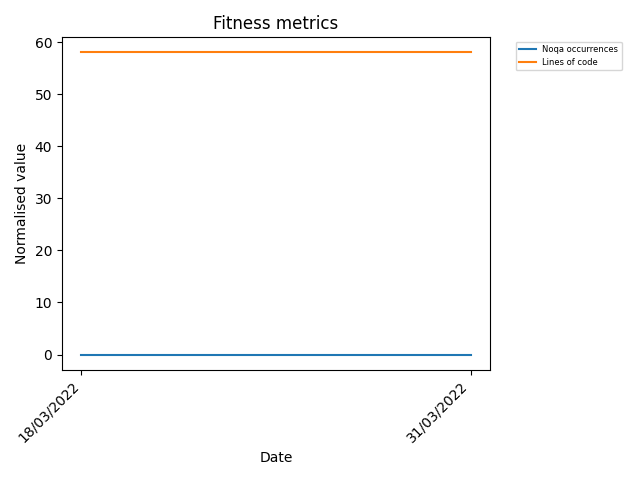
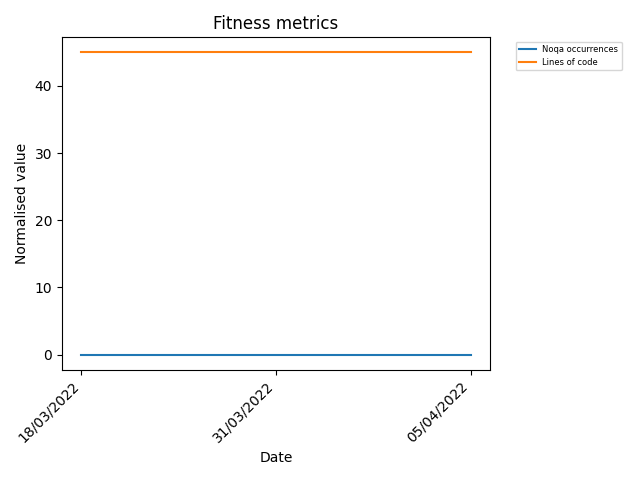
Chris/fix/TRSV2-2 CircleCI Improvements (#8)
* Refactored circleci config.yml and fixed some flake8 errors

* Added pyflake8 to requirements.txt

* [ci skip] AUTOMATED - update fitness functions

* Cleaned up circleci config.yml

* [ci skip] AUTOMATED - update fitness functions

diff --git a/trade_remedies_client/lib.py b/trade_remedies_client/lib.py
@@ -515,7 +515,6 @@ def get_notice(self, notice_id):
 
 
 def set_case_data(self, case_id, data):
-    case = self.get_one(f"/cases/{case_id}/")
     url = f"/cases/{case_id}/"
     return self.post(url, data=data)
 
@@ -1420,7 +1419,7 @@ def set_review_flag(self, organisation_id, case_id, submission_id, review=None):
 
 def set_review_type(self, case_id, submission_id, reference_case, review_type):
     url = f"/cases/{case_id}/submission/{submission_id}/reviewtype/"
-    case = self.post(
+    self.post(
         url,
         data={
             "reference_case": reference_case,

diff --git a/trade_remedies_client/exceptions.py b/trade_remedies_client/exceptions.py
@@ -5,7 +5,7 @@ class APIException(Exception):
                 self.detail = args[0].response.json()
                 self.status_code = args[0].response.status_code
                 self.message = self.detail.get("detail")
-            except Exception as apiexc:
+            except Exception:
                 self.message = "Unknown error"
         elif args:
             self.message = args[0]
